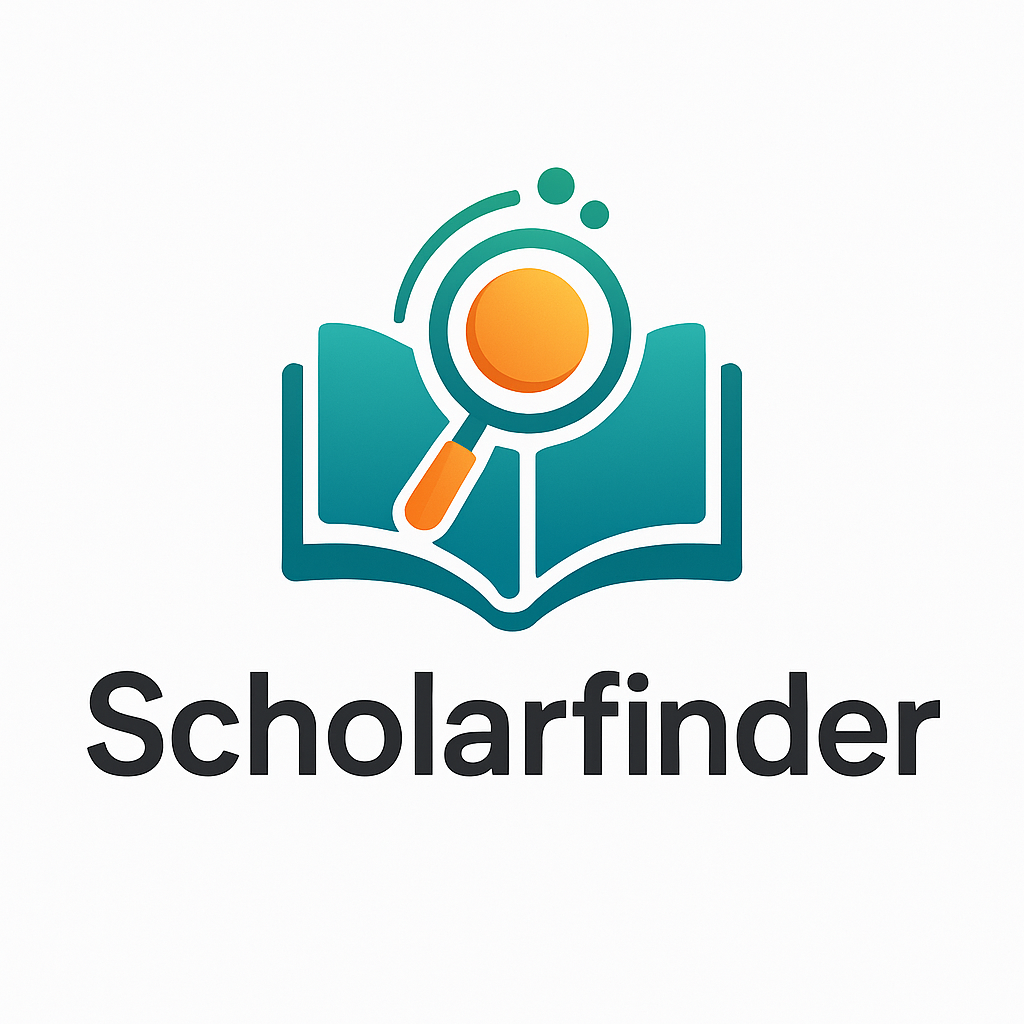
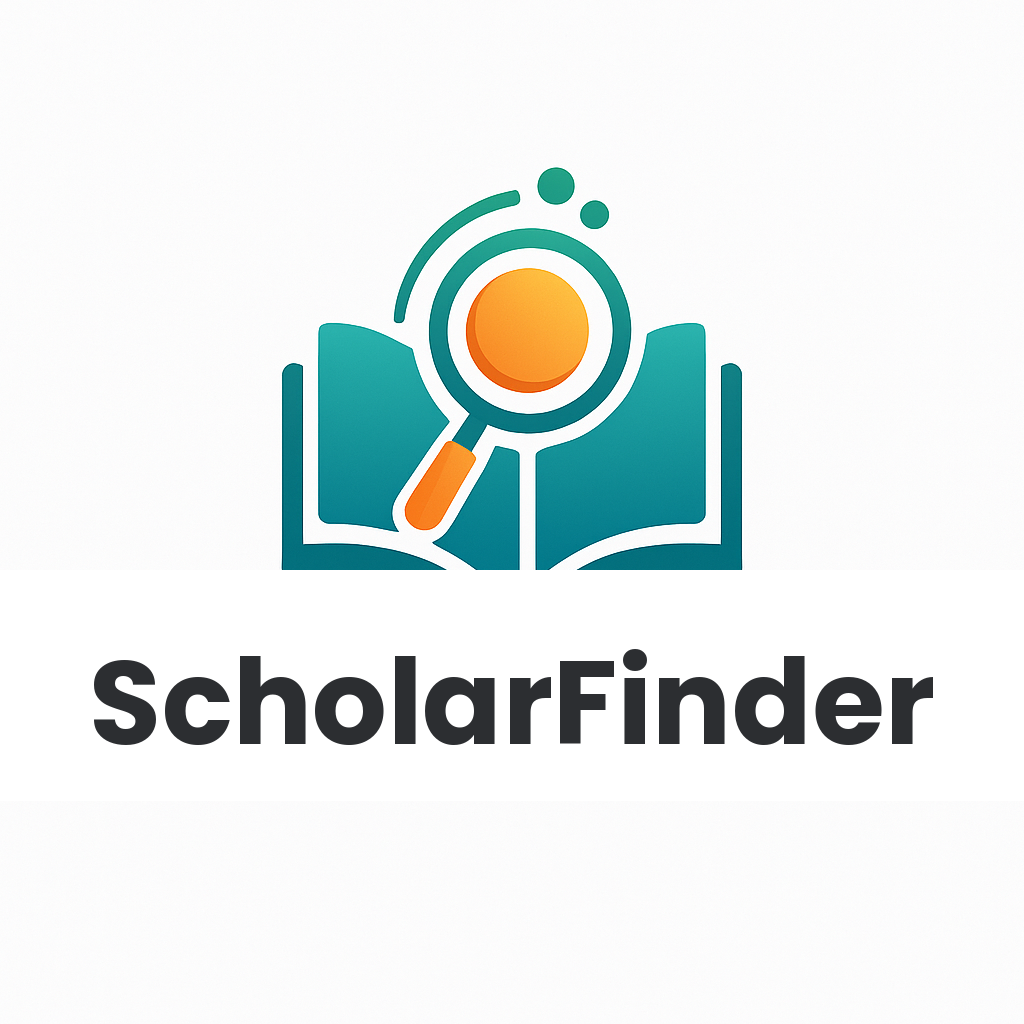
renaming Scholarfinder to ScholarFinder

Changed region(s): [[0.0625, 0.625, 0.9375, 0.7812], [0.2812, 0.5312, 0.7188, 0.625]]

diff --git a/src/pages/AuthenticatedAppSelector.tsx b/src/pages/AuthenticatedAppSelector.tsx
@@ -1,7 +1,7 @@
 import { useNavigate } from "react-router-dom";
 import { Button } from "@/components/ui/button";
 import { Card, CardContent, CardDescription, CardHeader, CardTitle } from "@/components/ui/card";
-import { BookOpen, Users, Lock, LogOut } from "lucide-react";
+import { Users, Lock, LogOut } from "lucide-react";
 import { useAuth } from "@/contexts/AuthContext";
 import { useToast } from "@/hooks/use-toast";
 import logo from "@/assets/s3 2.png";
@@ -53,8 +53,7 @@ const AuthenticatedAppSelector = () => {
         {/* Header */}
         <div className="text-center mb-8">
           <div className="flex items-center justify-between mb-4">
-            <div className="flex items-center justify-center space-x-3 flex-1">
-              <img src={logo} alt="Logo" className="w-16 h-16 object-contain" />
+            <div className="flex items-center justify-center flex-1">
               <h1 className="text-4xl font-bold text-foreground">Application Portal</h1>
             </div>
             
@@ -82,7 +81,7 @@ const AuthenticatedAppSelector = () => {
           <Card className="hover:shadow-lg transition-shadow cursor-pointer" onClick={handleScholarFinderClick}>
             <CardHeader className="text-center pb-4">
               <div className="mx-auto mb-4 p-3 bg-primary/10 rounded-full w-fit">
-                <BookOpen className="w-8 h-8 text-primary" />
+                <img src={logo} alt="ScholarFinder Logo" className="w-8 h-8 object-contain" />
               </div>
               <CardTitle className="text-2xl">ScholarFinder</CardTitle>
               <CardDescription className="text-base">

diff --git a/index.html b/index.html
@@ -3,12 +3,12 @@
   <head>
     <meta charset="UTF-8" />
     <meta name="viewport" content="width=device-width, initial-scale=1.0" />
-    <title>Scholarfinder - Academic Peer Reviewer Discovery Platform</title>
-    <meta name="description" content="Scholarfinder helps researchers and journal editors identify suitable peer reviewers for academic manuscripts through AI-powered search across multiple databases." />
-    <meta name="author" content="Scholarfinder" />
+    <title>ScholarFinder - Academic Peer Reviewer Discovery Platform</title>
+    <meta name="description" content="ScholarFinder helps researchers and journal editors identify suitable peer reviewers for academic manuscripts through AI-powered search across multiple databases." />
+    <meta name="author" content="ScholarFinder" />
     <meta name="keywords" content="peer review, academic publishing, manuscript review, scholarly research, reviewer discovery" />
 
-    <meta property="og:title" content="Scholarfinder - Academic Peer Reviewer Discovery Platform" />
+    <meta property="og:title" content="ScholarFinder - Academic Peer Reviewer Discovery Platform" />
     <meta property="og:description" content="AI-powered platform for finding qualified peer reviewers for academic manuscripts" />
     <meta property="og:type" content="website" />
     <meta property="og:image" content="/src/assets/s3 1.png" />

diff --git a/src/pages/Index.tsx b/src/pages/Index.tsx
@@ -71,9 +71,9 @@ const Index = () => {
         <div className="max-w-7xl mx-auto px-4 sm:px-6 lg:px-8">
           <div className="flex items-center justify-between h-16">
             <div className="flex items-center space-x-3">
-              <img src={logo} alt="Scholarfinder Logo" className="w-10 h-10 object-contain" />
+              <img src={logo} alt="ScholarFinder Logo" className="w-10 h-10 object-contain" />
               <div>
-                <h1 className="text-xl font-bold">Scholarfinder</h1>
+                <h1 className="text-xl font-bold">ScholarFinder</h1>
               </div>
             </div>
             
